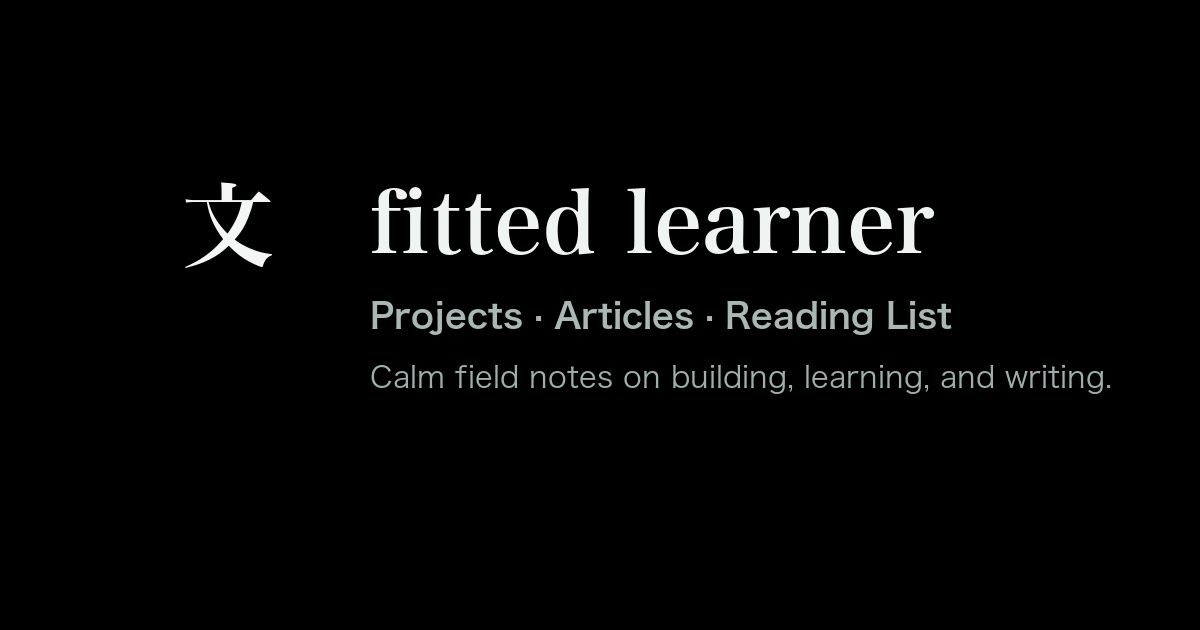
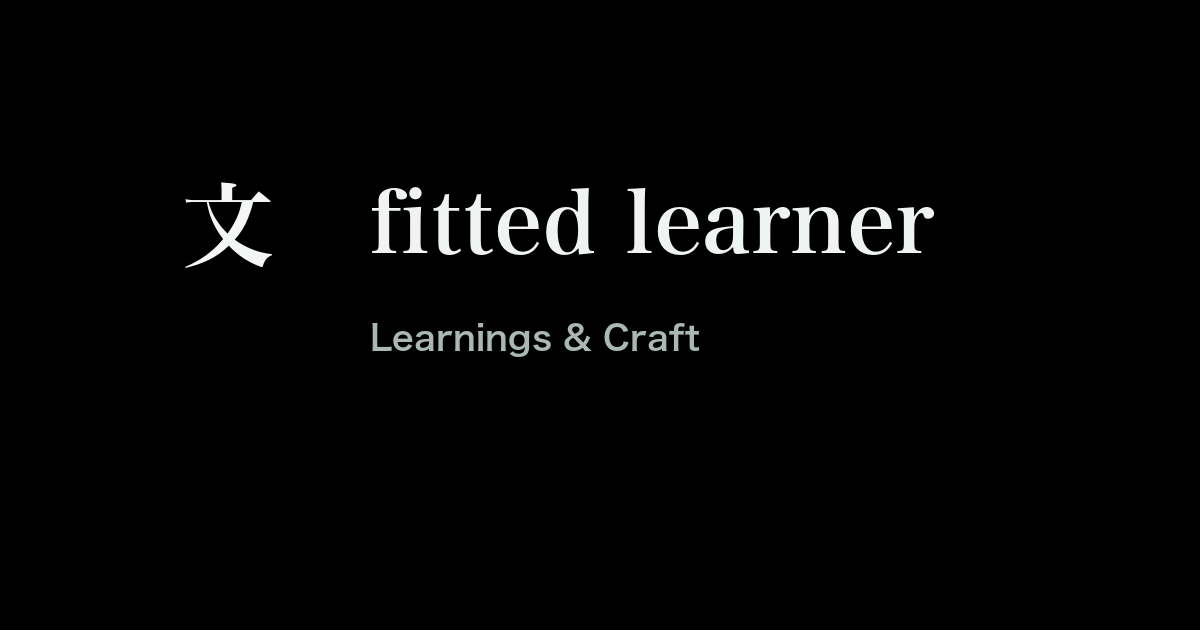
change name

Changed region(s): [[0.3083, 0.4825, 0.925, 0.6333]]

diff --git a/index.html b/index.html
@@ -7,19 +7,16 @@
     <meta name="author" content="Fitted Learner" />
     <meta
       name="description"
-      content="A calm personal site for projects, articles, and a reading list with optional notes."
+      content="Learnings & Crafts: building products, leading teams, and learning in public."
     />
     <meta property="og:site_name" content="Fitted Learner" />
     <meta property="og:type" content="website" />
-    <meta
-      property="og:title"
-      content="Fitted Learner · Projects, Articles, and Reading List"
-    />
+    <meta property="og:title" content="fitted learner" />
     <meta
       property="og:description"
-      content="A calm personal site for projects, articles, and a reading list with optional notes."
+      content="Learnings & Crafts: building products, leading teams, and learning in public."
     />
-    <meta property="og:image" content="/og-image.png" />
+    <meta property="og:image" content="/og-image.png?v=2" />
     <meta property="og:image:type" content="image/png" />
     <meta property="og:image:width" content="1200" />
     <meta property="og:image:height" content="630" />
@@ -28,19 +25,16 @@
       content="Fitted Learner social image with Japanese logo mark 文"
     />
     <meta name="twitter:card" content="summary_large_image" />
-    <meta
-      name="twitter:title"
-      content="Fitted Learner · Projects, Articles, and Reading List"
-    />
+    <meta name="twitter:title" content="fitted learner" />
     <meta
       name="twitter:description"
-      content="A calm personal site for projects, articles, and a reading list with optional notes."
+      content="Learnings & Crafts: building products, leading teams, and learning in public."
     />
-    <meta name="twitter:image" content="/og-image.png" />
+    <meta name="twitter:image" content="/og-image.png?v=2" />
     <meta name="theme-color" content="#101517" media="(prefers-color-scheme: dark)" />
     <meta name="theme-color" content="#f3f0e9" media="(prefers-color-scheme: light)" />
     <link rel="icon" type="image/svg+xml" href="/site-logo.svg" />
-    <title>Fitted Learner</title>
+    <title>fitted learner</title>
   </head>
   <body>
     <div id="root"></div>

diff --git a/src/views/pages.tsx b/src/views/pages.tsx
@@ -79,17 +79,13 @@ export function HomePage() {
 
   return (
     <div className='home-page'>
-      <PageHead
-        title='Fitted Learner'
-        description='A calm personal site for projects, articles, and a reading list with optional notes.'
-      />
+      <PageHead title='fitted learner' description='Learnings & Craft' />
 
       <section className='hero'>
-        <p className='eyebrow'>Personal Knowledge Base</p>
-        <h1>Field notes on building products, refining ideas, and reading deeply.</h1>
+        <p className='eyebrow'>Learnings & Crafts</p>
+        <h1>Building products, leading teams, and learning in public.</h1>
         <p className='hero-copy'>
-          A calm, markdown-first studio for documenting what I build, what I learn, and
-          what I keep returning to.
+          Notes from hands-on product craft and technical leadership.
         </p>
       </section>
 

diff --git a/src/components/page-head.tsx b/src/components/page-head.tsx
@@ -1,7 +1,7 @@
 import { useEffect } from 'react';
 
 const SITE_NAME = 'Fitted Learner';
-const DEFAULT_IMAGE_PATH = '/og-image.png';
+const DEFAULT_IMAGE_PATH = '/og-image.png?v=2';
 
 interface PageHeadProps {
   title: string;
